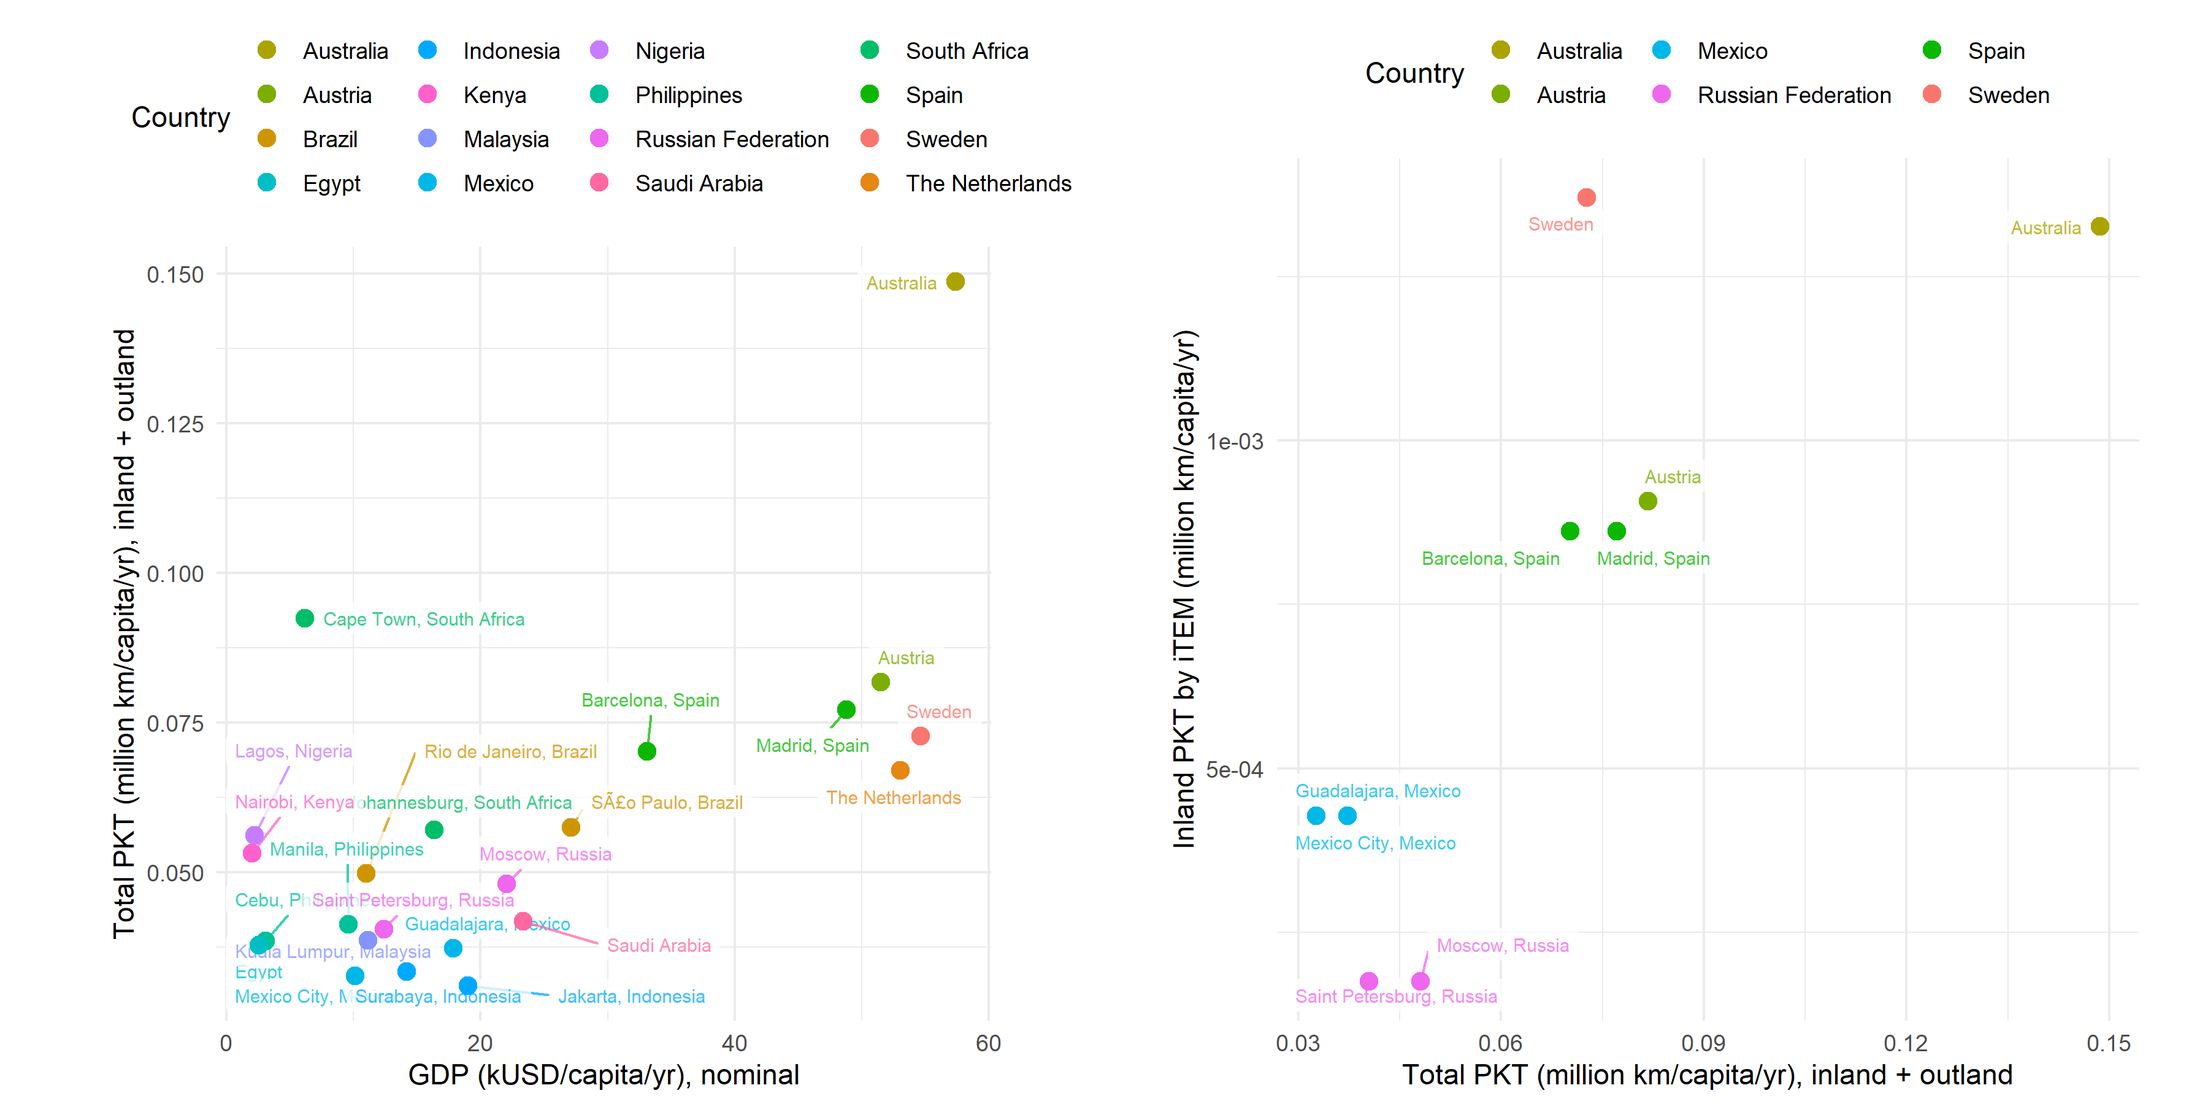
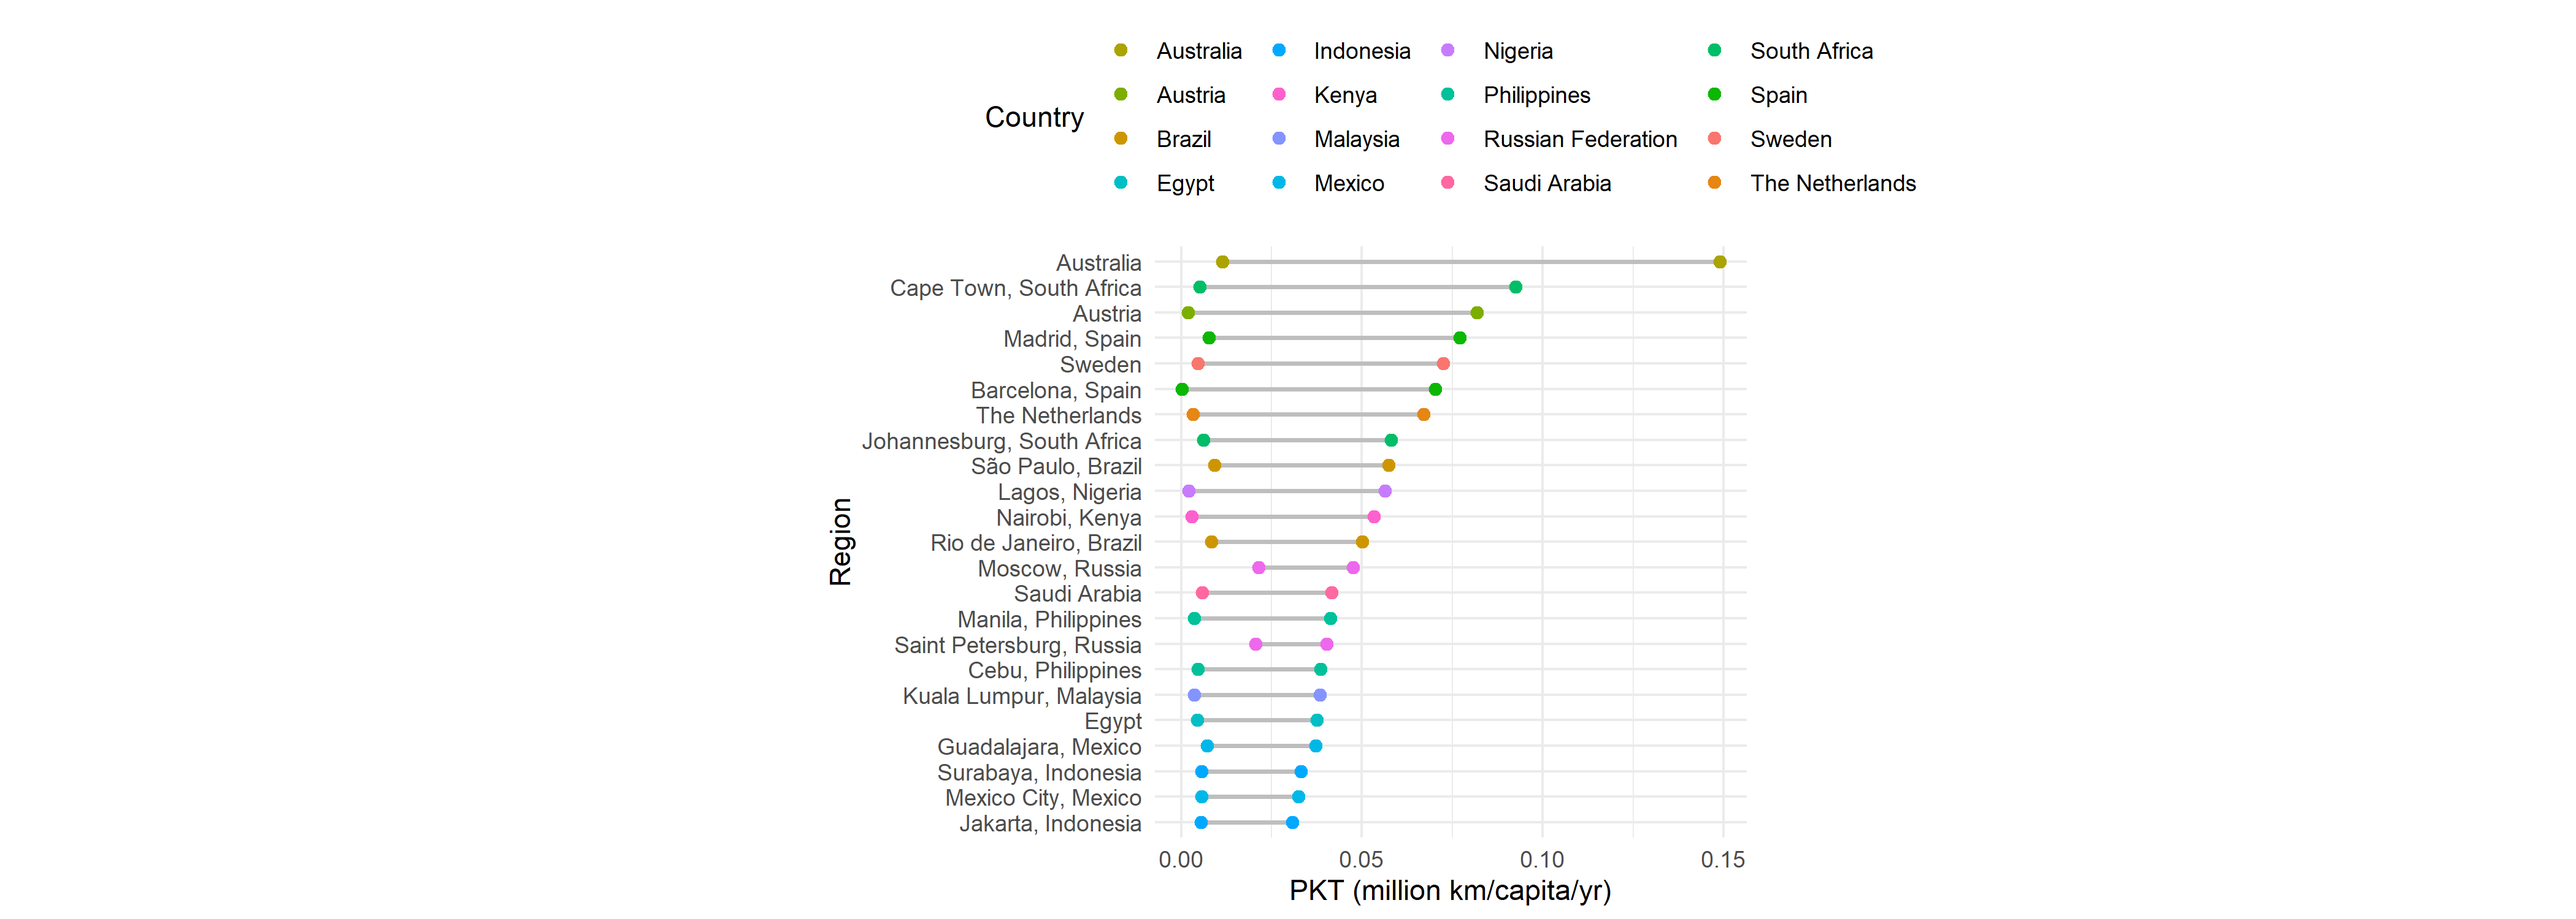
Summarize the multi-region results by considering both total and inland.

diff --git a/src/py/multi-region-visits-describe.py b/src/py/multi-region-visits-describe.py
@@ -49,11 +49,16 @@ class MultiRegionVisitsDesc:
                                                 data2[:1].latitude.values.reshape(1, 1)))
         data2.loc[:, 'longitude_d'] = np.vstack((data2[1:].longitude.values.reshape(len(data2) - 1, 1),
                                                  data2[:1].longitude.values.reshape(1, 1)))
+        data2.loc[:, 'dom_d'] = np.vstack((data2[1:].dom.values.reshape(len(data2) - 1, 1),
+                                           data2[:1].dom.values.reshape(1, 1)))
         data2.loc[:, 'distance'] = data2.apply(
             lambda row: mscthesis.haversine_distance(row['latitude'], row['longitude'],
                                                      row['latitude_d'], row['longitude_d']), axis=1)
+        data2.loc[:, 'inland'] = data2.apply(lambda row: 1 if (row['dom'] == 1) & (row['dom_d'] == 1) else 0, axis=1)
         return pd.Series({'pkt': data2['distance'].sum(),
-                          'num_trip': len(data2)})
+                          'num_trip': len(data2),
+                          'pkt_inland': data2.loc[data2['inland'] == 1, 'distance'].sum(),
+                          'num_trip_inland': len(data2.loc[data2['inland'] == 1, :])})
 
     def load_visits_preprocess(self):
         df_v = pd.read_csv(self.path2visits)
@@ -65,18 +70,19 @@ class MultiRegionVisitsDesc:
         self.visits_stats.to_csv(self.path2visits_stats)
 
 
-def region_visits_proc(region=None, runid=1):
+def region_visits_proc(region=None, runid=None):
     rg = MultiRegionVisitsDesc(region=region, runid=runid)
     rg.load_visits_preprocess()
     rg.visits_desc_compute()
 
 
 if __name__ == '__main__':
-    # region_list = ['australia', 'austria', 'barcelona', 'capetown', 'cebu', 'egypt', 'guadalajara', 'jakarta',
-    #                'johannesburg', 'kualalumpur', 'lagos', 'madrid', 'manila', 'mexicocity', 'moscow', 'nairobi',
-    #                'rio', 'saudiarabia', 'stpertersburg', 'surabaya']
-    region_list = ['netherlands', 'sweden', 'saopaulo']
+    region_list = ['saopaulo', 'australia', 'austria', 'barcelona', 'sweden', 'netherlands', 'capetown',
+                   'cebu', 'egypt', 'guadalajara', 'jakarta', 'johannesburg', 'kualalumpur',
+                   'lagos', 'madrid', 'manila', 'mexicocity', 'moscow', 'nairobi',
+                   'rio', 'saudiarabia', 'stpertersburg', 'surabaya']
+    runid = 2
     # parallelize the processing of geotagged tweets of multiple regions
     pool = mp.Pool(mp.cpu_count())
-    pool.starmap(region_visits_proc, [(r, 1, ) for r in region_list])
+    pool.starmap(region_visits_proc, [(r, runid, ) for r in region_list])
     pool.close()
